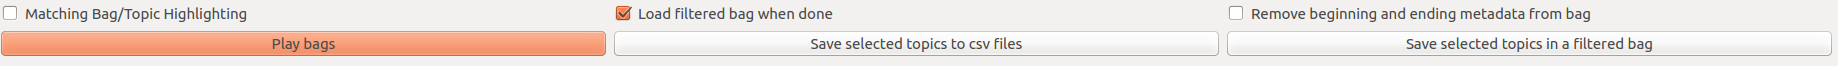
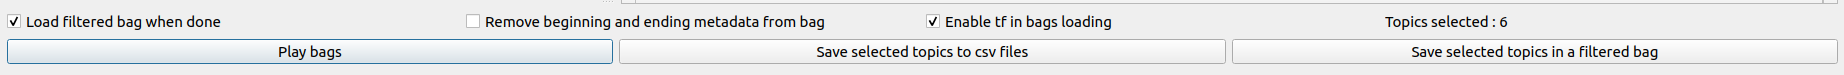
[DOC] Update README

diff --git a/README.md b/README.md
@@ -17,7 +17,7 @@ Download the executable using python3 at this <h1> [Download link](https://drive
 Clone the BagGetFilter's remote repository in your computer.
 
 ```
-git clone http://192.168.1.101/AVL-Summer-18/BagGetFilter
+https://github.com/uf-reef-avl/BagGetFilter
 ```
 
 
@@ -43,7 +43,7 @@ Then the main window will appear:
 
 ![Select Area Bag file](./docs/imgs/Select_Bag_Area.png "Select Area Bag File")
 
- - All of the topics contianed in the bag file(s) will be displayed under the "Topics" column. The clipboard area of the bags will be also populated with some common roslaunch commands. The user will be able to see it by clicking on the "Show Clipboard" button. The "Clear Bags" button clears the bags currently loaded in the application.
+ - All of the topics contained in the bag file(s) will be displayed under the "Topics" column. The clipboard area of the bags will be also populated with some common roslaunch commands. The user will be able to see it by clicking on the "Show Clipboard" button. The "Clear Bags" button clears the bags currently loaded in the application.
 
 ![Clipboard](./docs/imgs/Clipboard.png "Clipboard")
 
@@ -51,6 +51,9 @@ Then the main window will appear:
 
 ![Selected Topics](./docs/imgs/Selected_Topics.png "Select Topics")
 
+ - A topic search bar is also available to select easily some topics. The **|** character can be used to search for multiple strings in the topics list.
+
+![Selection Bar](./docs/imgs/selection_bar.png "Selection bar")
 
 ### Bag Manipulation
 
@@ -63,6 +66,8 @@ There are several ways to edit/play bag files:
  - Create csv files of the selected topics by clicking on the "Save selected topics to csv files" button. The files will be automatically named but the storage directory has to be specified.
 
  - Create a new bag with only the selected topics by clicking on the "Save selected topics in a filtered bag" button. The files will be automatically named by keeping the same bag name and adding the suffix specified in the upper line. The storage directory must also be specified.
+
+ - **enable tf in bags loading** checkbox permits to load tf topics inside BagGetFilter. It is not advisable to check it when a voluminous bag will be loaded because it will slow down the performance. 
  
 ![Bag Suffix](./docs/imgs/Bag_suffix.png "Bag Suffix")
 
